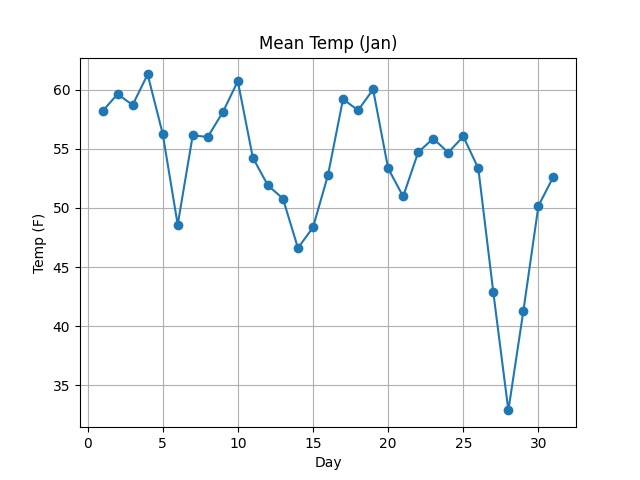
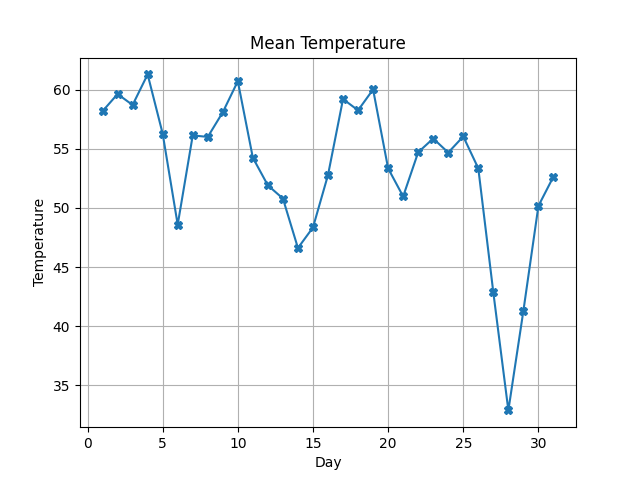
hw 4 done

diff --git a/Homework/Homework4/main.py b/Homework/Homework4/main.py
@@ -2,100 +2,266 @@ import pandas as pd
 import numpy as np
 import matplotlib.pyplot as plt
 from math import radians, sin, cos, sqrt, atan2
+import matplotlib.patches as mpatches
 
-# Haversine distance function
-def haversine(a, b, c, d):
-    R = 6371
-    a_rad = radians(a)
-    b_rad = radians(b)
-    c_rad = radians(c)
-    d_rad = radians(d)
-    da = c_rad - a_rad
-    db = d_rad - b_rad
-    x = sin(da/2)**2 + cos(a_rad) * cos(c_rad) * sin(db/2)**2
-    y = 2 * atan2(sqrt(x), sqrt(1-x))
-    return R * y
+EARTH_RADIUS = 6371
 
-# Load CSV files without headers; added columns for simplicity
-st = pd.read_csv('stations.csv', header=None, names=['id', 'wid', 'lat', 'lon'])
-tp = pd.read_csv('temp.csv', header=None, names=['id', 'wid', 'mon', 'day', 'temp'])
+def haversine_distance(lat1, lon1, lat2, lon2):
+    """
+    Compute the haversine distance between two geographic points.
 
-# Quick prints
-print("Shape before cleaning:", st.shape)
-st_clean = st.dropna()
-st_clean = st_clean[(st_clean['lat'] != 0) & (st_clean['lon'] != 0)]
-print("Rows after cleaning:", st_clean)
-print("Shape after cleaning:", st_clean.shape)
+    Parameters:
+      lat1 (float): Latitude of the first point in degrees.
+      lon1 (float): Longitude of the first point in degrees.
+      lat2 (float): Latitude of the second point in degrees.
+      lon2 (float): Longitude of the second point in degrees.
 
-# Find stations near Cape Canaveral
-cape_lat, cape_lon = 28.396837, -80.605659
-dists = []
-for i, r in st_clean.iterrows():
-    dists.append(haversine(cape_lat, cape_lon, r['lat'], r['lon']))
-st_clean['d'] = dists
-st_near = st_clean[st_clean['d'] <= 100]
-print("Stations within 100km:", len(st_near))
+    Returns:
+      float: Distance between the two points in kilometers.
+    """
+    lat1_rad = radians(lat1)
+    lon1_rad = radians(lon1)
+    lat2_rad = radians(lat2)
+    lon2_rad = radians(lon2)
 
-# Min temp at station 722040 in January
-tp722 = tp[(tp['id'] == 722040) & (tp['mon'] == 1)]
-print("Min temp at 722040:", tp722['temp'].min())
+    delta_lat = lat2_rad - lat1_rad
+    delta_lon = lon2_rad - lon1_rad
 
-# Mean temp on Jan 28
-t28 = tp[(tp['mon'] == 1) & (tp['day'] == 28)]
-print("Mean temp on Jan 28:", t28['temp'].mean())
+    a = sin(delta_lat / 2)**2 + cos(lat1_rad) * cos(lat2_rad) * sin(delta_lon / 2)**2
+    c = 2 * atan2(sqrt(a), sqrt(1 - a))
 
-# Mean temp for each day for stations near Cape Canaveral
-tp_near = pd.merge(tp, st_near[['id']])
-tp_near_jan = tp_near[tp_near['mon'] == 1]
-mean_daily = tp_near_jan.groupby('day')['temp'].mean()
-plt.figure()
-plt.plot(mean_daily.index, mean_daily.values, marker='X')
-plt.title('Mean Temp')
-plt.xlabel('Day')
-plt.ylabel('Temp')
-plt.grid(True)
-plt.savefig('plot1.png')
-plt.show()
+    return EARTH_RADIUS * c
 
-# Plot 2: Map of US temps on Jan 28
-min_lat, max_lat = 25.0, 50.0
-min_lon, max_lon = -125.0, -65.0
-rows, cols = 100, 150
-us_map = np.zeros((rows, cols, 3))
+def read_data(stations_file, temp_file):
+    """
+    Read station and temperature data from CSV files.
 
-def temp_to_color(t):
-    if t > 90:
+    Parameters:
+      stations_file (str): Filename for station data.
+      temp_file (str): Filename for temperature data.
+
+    Returns:
+      tuple: (stations_df, temp_df)
+    """
+    stations_df = pd.read_csv(
+        stations_file,
+        header=None,
+        names=['id', 'wid', 'lat', 'lon']
+    )
+    temp_df = pd.read_csv(
+        temp_file,
+        header=None,
+        names=['id', 'wid', 'mon', 'day', 'temp']
+    )
+    return stations_df, temp_df
+
+def clean_stations_data(stations_df):
+    """
+    Clean the station data by dropping missing values and invalid coordinates.
+
+    Parameters:
+      stations_df (DataFrame): DataFrame containing station data.
+
+    Returns:
+      DataFrame: Cleaned station data.
+    """
+    cleaned_df = stations_df.dropna()
+    cleaned_df = cleaned_df[
+        (cleaned_df['lat'] != 0) & (cleaned_df['lon'] != 0)
+        ]
+    return cleaned_df
+
+def filter_stations_near(stations_df, center_lat, center_lon, max_distance=100):
+    """
+    Filter stations that are within a specified distance from a center point.
+
+    Parameters:
+      stations_df (DataFrame): Cleaned station data.
+      center_lat (float): Latitude of the center point.
+      center_lon (float): Longitude of the center point.
+      max_distance (float): Maximum distance in kilometers.
+
+    Returns:
+      DataFrame: Stations within the specified distance with an added 'd' column.
+    """
+    distances = []
+    for _, row in stations_df.iterrows():
+        distance = haversine_distance(
+            center_lat, center_lon, row['lat'], row['lon']
+        )
+        distances.append(distance)
+    stations_df = stations_df.copy()
+    stations_df['d'] = distances
+    near_df = stations_df[stations_df['d'] <= max_distance]
+    return near_df
+
+def get_min_temp_at_station(temp_df, station_id, month):
+    """
+    Get the minimum temperature for a given station and month.
+
+    Parameters:
+      temp_df (DataFrame): Temperature data.
+      station_id (int): Station identifier.
+      month (int): Month (as an integer).
+
+    Returns:
+      float: Minimum temperature.
+    """
+    station_temp = temp_df[(temp_df['id'] == station_id) & (temp_df['mon'] == month)]
+    return station_temp['temp'].min()
+
+def get_mean_temp_on_day(temp_df, month, day):
+    """
+    Get the mean temperature for a specific month and day.
+
+    Parameters:
+      temp_df (DataFrame): Temperature data.
+      month (int): Month (as an integer).
+      day (int): Day of the month.
+
+    Returns:
+      float: Mean temperature.
+    """
+    day_temp = temp_df[(temp_df['mon'] == month) & (temp_df['day'] == day)]
+    return day_temp['temp'].mean()
+
+def plot_mean_temperature(temp_df, stations_near_df, month):
+    """
+    Plot mean daily temperature for stations near a center for a given month.
+
+    Parameters:
+      temp_df (DataFrame): Temperature data.
+      stations_near_df (DataFrame): Data for stations near the center.
+      month (int): Month for which to plot the data.
+    """
+    temp_near_df = pd.merge(temp_df, stations_near_df[['id']], on='id')
+    temp_near_month_df = temp_near_df[temp_near_df['mon'] == month]
+    mean_daily_temp = temp_near_month_df.groupby('day')['temp'].mean()
+
+    plt.figure()
+    plt.plot(mean_daily_temp.index, mean_daily_temp.values, marker='X')
+    plt.title('Mean Temperature')
+    plt.xlabel('Day')
+    plt.ylabel('Temperature')
+    plt.grid(False)
+    plt.savefig('plot1.png')
+    plt.show()
+
+def temp_to_color(temp):
+    """
+    Convert a temperature value to an RGB color.
+
+    Parameters:
+      temp (float): Temperature value.
+
+    Returns:
+      list: RGB color as a list of three integers.
+    """
+    if temp > 90:
         return [255, 0, 0]
-    elif t > 80:
+    elif temp > 80:
         return [255, 128, 0]
-    elif t > 70:
+    elif temp > 70:
         return [255, 255, 0]
-    elif t > 60:
+    elif temp > 60:
         return [128, 255, 128]
-    elif t > 50:
+    elif temp > 50:
         return [0, 255, 0]
-    elif t > 40:
+    elif temp > 40:
         return [0, 128, 255]
     else:
         return [128, 0, 128]
 
-t28 = tp[(tp['mon'] == 1) & (tp['day'] == 28)]
-t28 = pd.merge(t28, st_clean[['id', 'lat', 'lon']])
-for i, r in t28.iterrows():
-    a = r['lat']
-    b = r['lon']
-    t = r['temp']
-    if a < min_lat or a > max_lat or b < min_lon or b > max_lon:
-        continue
-    r_idx = int((max_lat - a) / (max_lat - min_lat) * (rows - 1))
-    c_idx = int((b - min_lon) / (max_lon - min_lon) * (cols - 1))
-    if r_idx < 0 or r_idx >= rows or c_idx < 0 or c_idx >= cols:
-        continue
-    us_map[r_idx, c_idx] = temp_to_color(t)
+def plot_us_temperature_map(temp_df, stations_df, month, day):
+    """
+    Plot a US temperature map for a given day with a legend indicating the temperature ranges.
 
-plt.figure()
-plt.imshow(us_map)
-plt.title('US Temp Jan 28')
-plt.tight_layout()
-plt.savefig('plot2.png')
-plt.show()
+    Parameters:
+      temp_df (DataFrame): Temperature data.
+      stations_df (DataFrame): Station data with latitude and longitude.
+      month (int): Month for which to plot the map.
+      day (int): Day of the month.
+    """
+    min_lat, max_lat = 25.0, 50.0
+    min_lon, max_lon = -125.0, -65.0
+    rows, cols = 100, 150
+    us_map = np.zeros((rows, cols, 3))
+
+    temp_day_df = temp_df[(temp_df['mon'] == month) & (temp_df['day'] == day)]
+    temp_day_df = pd.merge(temp_day_df, stations_df[['id', 'lat', 'lon']], on='id')
+
+    for _, row in temp_day_df.iterrows():
+        lat = row['lat']
+        lon = row['lon']
+        temperature = row['temp']
+
+        if lat < min_lat or lat > max_lat or lon < min_lon or lon > max_lon:
+            continue
+        row_idx = int((max_lat - lat) / (max_lat - min_lat) * (rows - 1))
+        col_idx = int((lon - min_lon) / (max_lon - min_lon) * (cols - 1))
+        if 0 <= row_idx < rows and 0 <= col_idx < cols:
+            us_map[row_idx, col_idx] = temp_to_color(temperature)
+
+    plt.figure(figsize=(12, 8))
+    plt.imshow(us_map)
+    plt.title('All the temperatures in the US on January 28th, 1986')
+    plt.subplots_adjust(right=0.75)
+
+    legend_patches = [
+        mpatches.Patch(color=(1, 0, 0), label='> 90°F'),
+        mpatches.Patch(color=(1, 128/255, 0), label='81°F - 90°F'),
+        mpatches.Patch(color=(1, 1, 0), label='71°F - 80°F'),
+        mpatches.Patch(color=(128/255, 1, 128/255), label='61°F - 70°F'),
+        mpatches.Patch(color=(0, 1, 0), label='51°F - 60°F'),
+        mpatches.Patch(color=(0, 128/255, 1), label='41°F - 50°F'),
+        mpatches.Patch(color=(128/255, 0, 128/255), label='≤ 40°F')
+    ]
+
+    # Place the legend outside the plot area
+    plt.legend(handles=legend_patches, loc='center left', bbox_to_anchor=(1, 0.5), title='Temperature Ranges')
+    plt.savefig('plot2.png', bbox_inches='tight')
+    plt.show()
+
+def main():
+    """
+    Main function to execute the analysis and visualizations.
+    """
+    # File names for the CSV data
+    stations_file = 'stations.csv'
+    temp_file = 'temp.csv'
+
+    # Read data from CSV files
+    stations_df, temp_df = read_data(stations_file, temp_file)
+
+    # Print shape before cleaning
+    print(f"Shape before cleaning: {stations_df.shape}")
+
+    # Clean station data
+    stations_clean_df = clean_stations_data(stations_df)
+    print("Stations data after cleaning:")
+    print(stations_clean_df)
+    print(f"Shape after cleaning: {stations_clean_df.shape}")
+
+    # Find stations near Cape Canaveral
+    cape_lat = 28.396837
+    cape_lon = -80.605659
+    stations_near_df = filter_stations_near(stations_clean_df, cape_lat, cape_lon)
+    print(f"Stations within 100 km: {len(stations_near_df)}")
+
+    # Compute temperature statistics for January
+    station_id = 722040
+    jan = 1
+    min_temp = get_min_temp_at_station(temp_df, station_id, jan)
+    print(f"Min temperature at station {station_id}: {min_temp}")
+
+    mean_temp_jan28 = get_mean_temp_on_day(temp_df, jan, 28)
+    print(f"Mean temperature on Jan 28: {mean_temp_jan28}")
+
+    # Plot mean daily temperature for stations near Cape Canaveral in January
+    plot_mean_temperature(temp_df, stations_near_df, jan)
+
+    # Plot US temperature map for January 28 with the color legend outside the graph
+    plot_us_temperature_map(temp_df, stations_clean_df, jan, 28)
+
+if __name__ == '__main__':
+    main()

diff --git a/Lab/lab4.py b/Lab/lab4.py
@@ -1,0 +1,26 @@
+import numpy as np
+import time
+import sys
+
+def measure_size_lst(length=1):
+    lst = list(range(length))
+    total_size = sys.getsizeof(lst) + (length * sys.getsizeof(0))
+    return total_size
+
+def measure_size_ray(length=1):
+    arr = np.arange(length, dtype=np.int32)
+    return arr.nbytes + sys.getsizeof(arr)
+
+def sqrt_elements_lst(low, high, length=1):
+    start_time = time.time()
+    lst = np.random.randint(low, high, length).tolist()
+    sqrt_lst = []
+    for x in lst:
+        sqrt_lst.append(x ** 0.5)
+    return time.time() - start_time
+
+def sqrt_elements_numpy(low, high, length=1):
+    start_time = time.time()
+    arr = np.random.randint(low, high, length)
+    sqrt_arr = np.sqrt(arr)
+    return time.time() - start_time

diff --git a/Homework/Homework1/sesson.py b/Homework/Homework1/sesson.py
@@ -2,7 +2,6 @@ import csv
 from Homework.Homework1.team import Team
 import matplotlib.pyplot as plt
 
-
 path = "./goals.csv"
 all_teams = []
 
